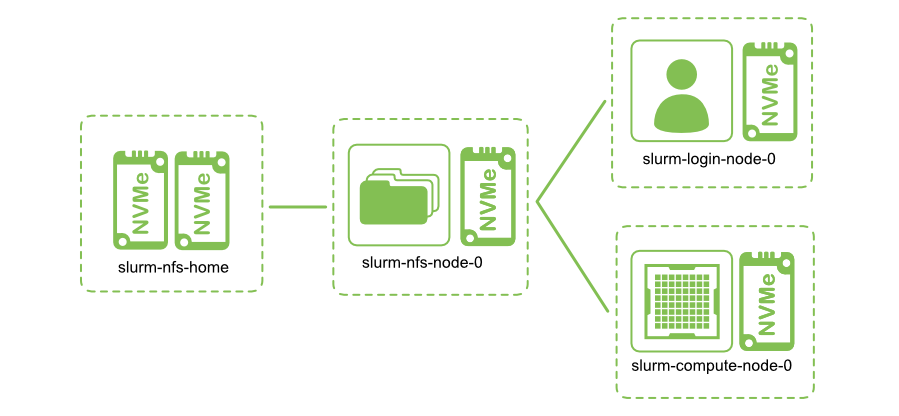
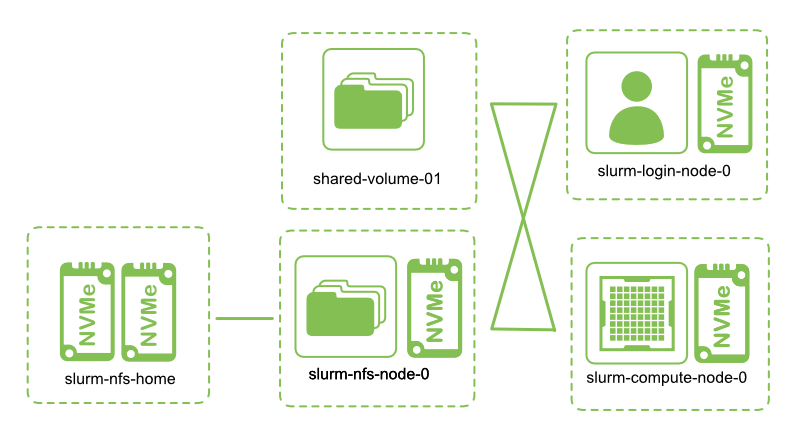
Add support for shared data volumes

diff --git a/README.md b/README.md
@@ -20,7 +20,7 @@ By default, this solution will create a high-availability SLURM cluster with:
 ## Storage
 ![storage architecture](docs/img/slurm-storage.png)
 
-This solution currently supports three tiers of storage:
+This solution currently supports four tiers of storage:
 
 ### Local Scratch
 Each `slurm-compute-node` instance supports up to `7.5 TiB` of local scratch
@@ -52,7 +52,7 @@ The remote scratch size on common nfs node instance types are:
 * `s1a.40x`: 25.6 TiB
 * `c1a.176x`: None
 
-### Shared
+### Shared Home Directory
 The `slurm-nfs-node-0` node exports a persistent `/home` directory that is mounted by
 all login nodes and all compute nodes. This offers up to `10 TiB` of persistent shared
 storage.
@@ -60,6 +60,25 @@ storage.
 The `slurm_nfs_home_size` variable can optionally be set in the `terraform.tfvars` file
 to configure the size of the `/home` nfs share. If left unconfigured, this will default
 to 10 TiB. Note that `10 TiB` is the maximum currently supported by Crusoe Cloud.
+
+Note: the lifecycle of the shared home directory is tied to the lifecycle of the cluster.
+Deleting the cluster will delete the shared home directory. A seperate shared data
+directory is recommended for storing critical data.
+
+### Shared Data Directory
+The `slurm_shared_volumes` variable can be used to add additional
+[shared volumes](https://docs.crusoecloud.com/storage/disks/managing-shared-disks/index.html) storage
+to the cluster. This is the recommended way to add high-performance persistent file storage
+to your cluster.
+
+```
+slurm_shared_volumes = [{
+  id = "8146e3ef-4192-4f59-b2d6-6a8b3dfe5cf3"
+  name = "data-01"
+  mode = "read-write"
+  mount_point = "/mnt/data-01"
+}]
+```
 
 ## User Management
 To add additional users to your cluster, configure the `slurm_users` variable in your
